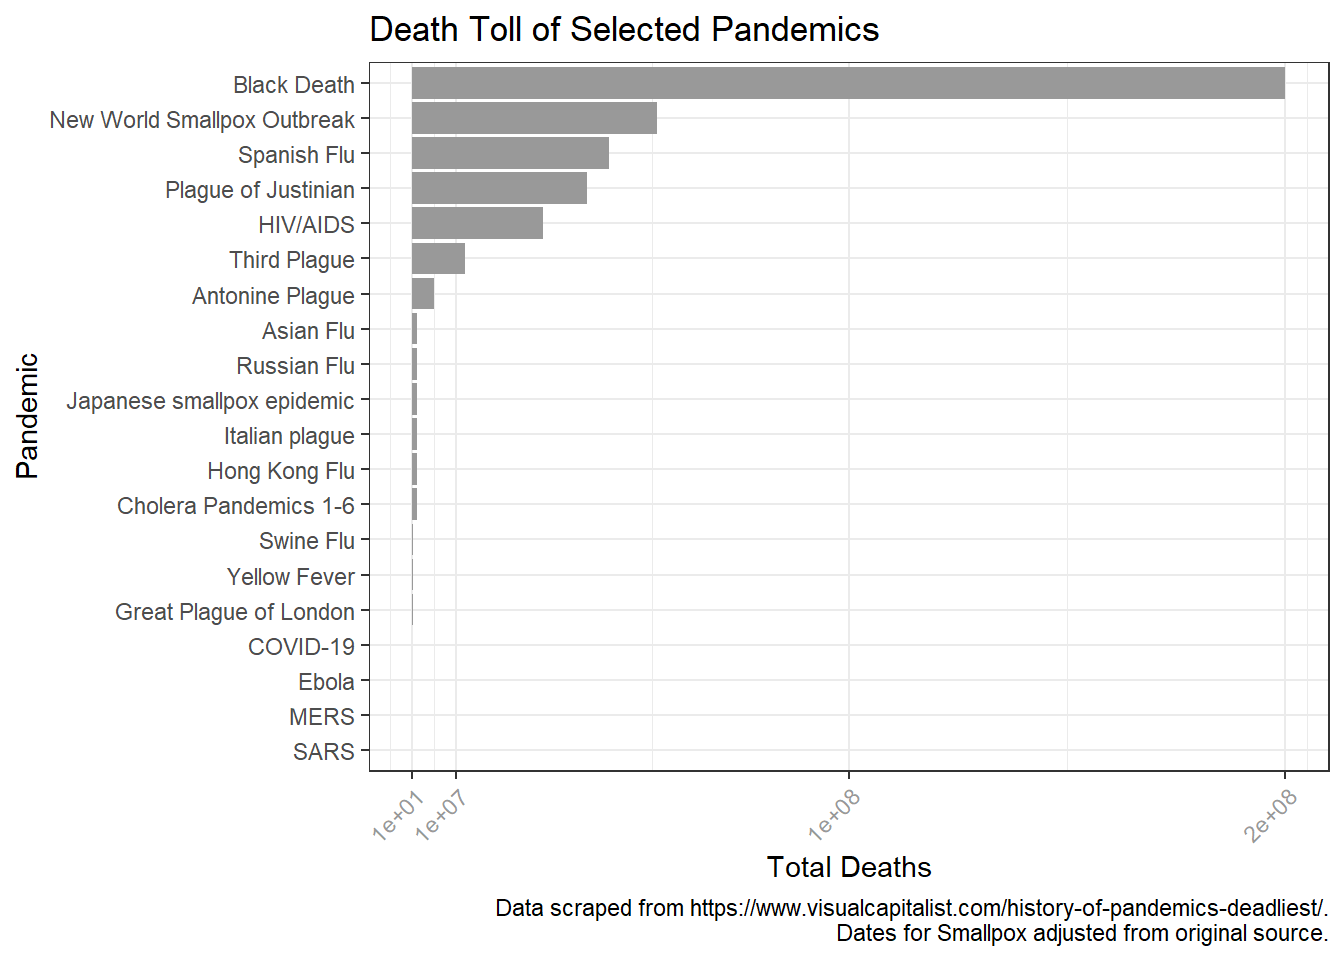
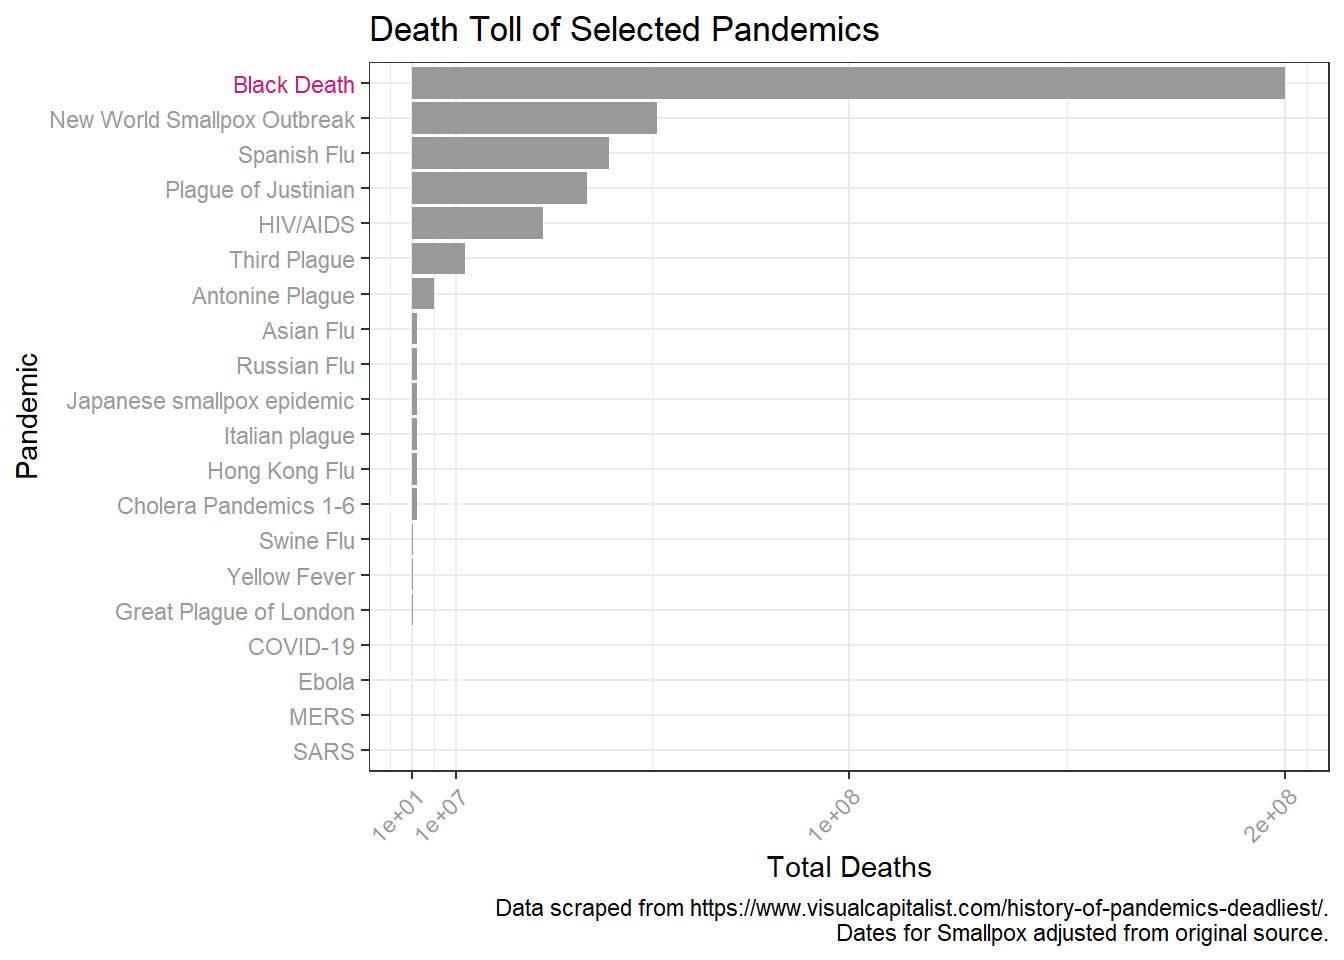
picture link in projects not showing

Changed region(s): [[0.0312, 0.0625, 0.2812, 0.8125]]

diff --git a/blog/covid-19-and-other-pandemics/index.html b/blog/covid-19-and-other-pandemics/index.html
@@ -422,7 +422,8 @@ caption1 &lt;- &quot;Data scraped from https://www.visualcapitalist.com/history-
   scale_fill_manual(values = cols)  +
   theme_bw() +
   theme(axis.text.x = element_text(hjust=1, angle=45, 
-                                   colour = text_col)) +
+                                   colour = text_col),
+        axis.text.y = element_text(colour = text_col)) +
   guides(fill = FALSE) +
   labs(title = &quot;Death Toll of Selected Pandemics&quot;,
        y = &quot;Total Deaths&quot;, x = &quot;Pandemic&quot;,
